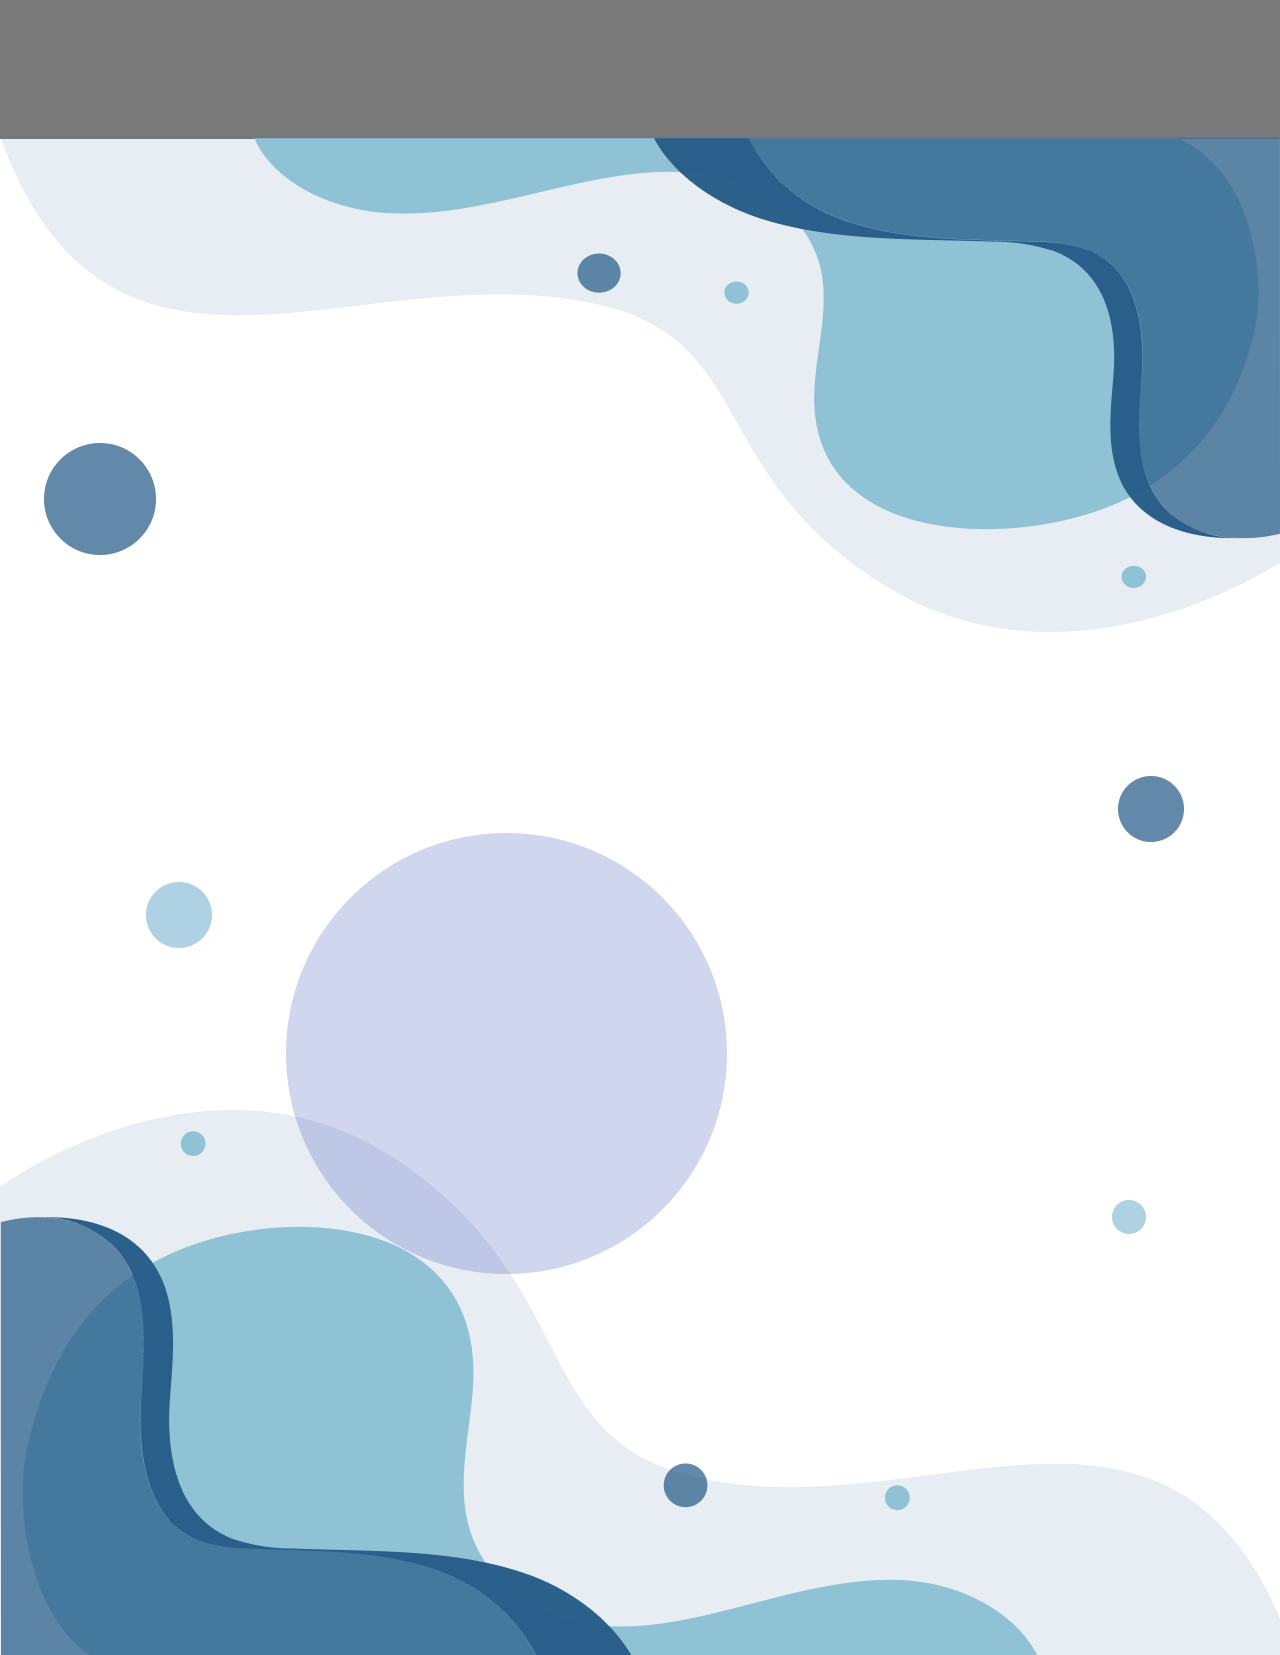
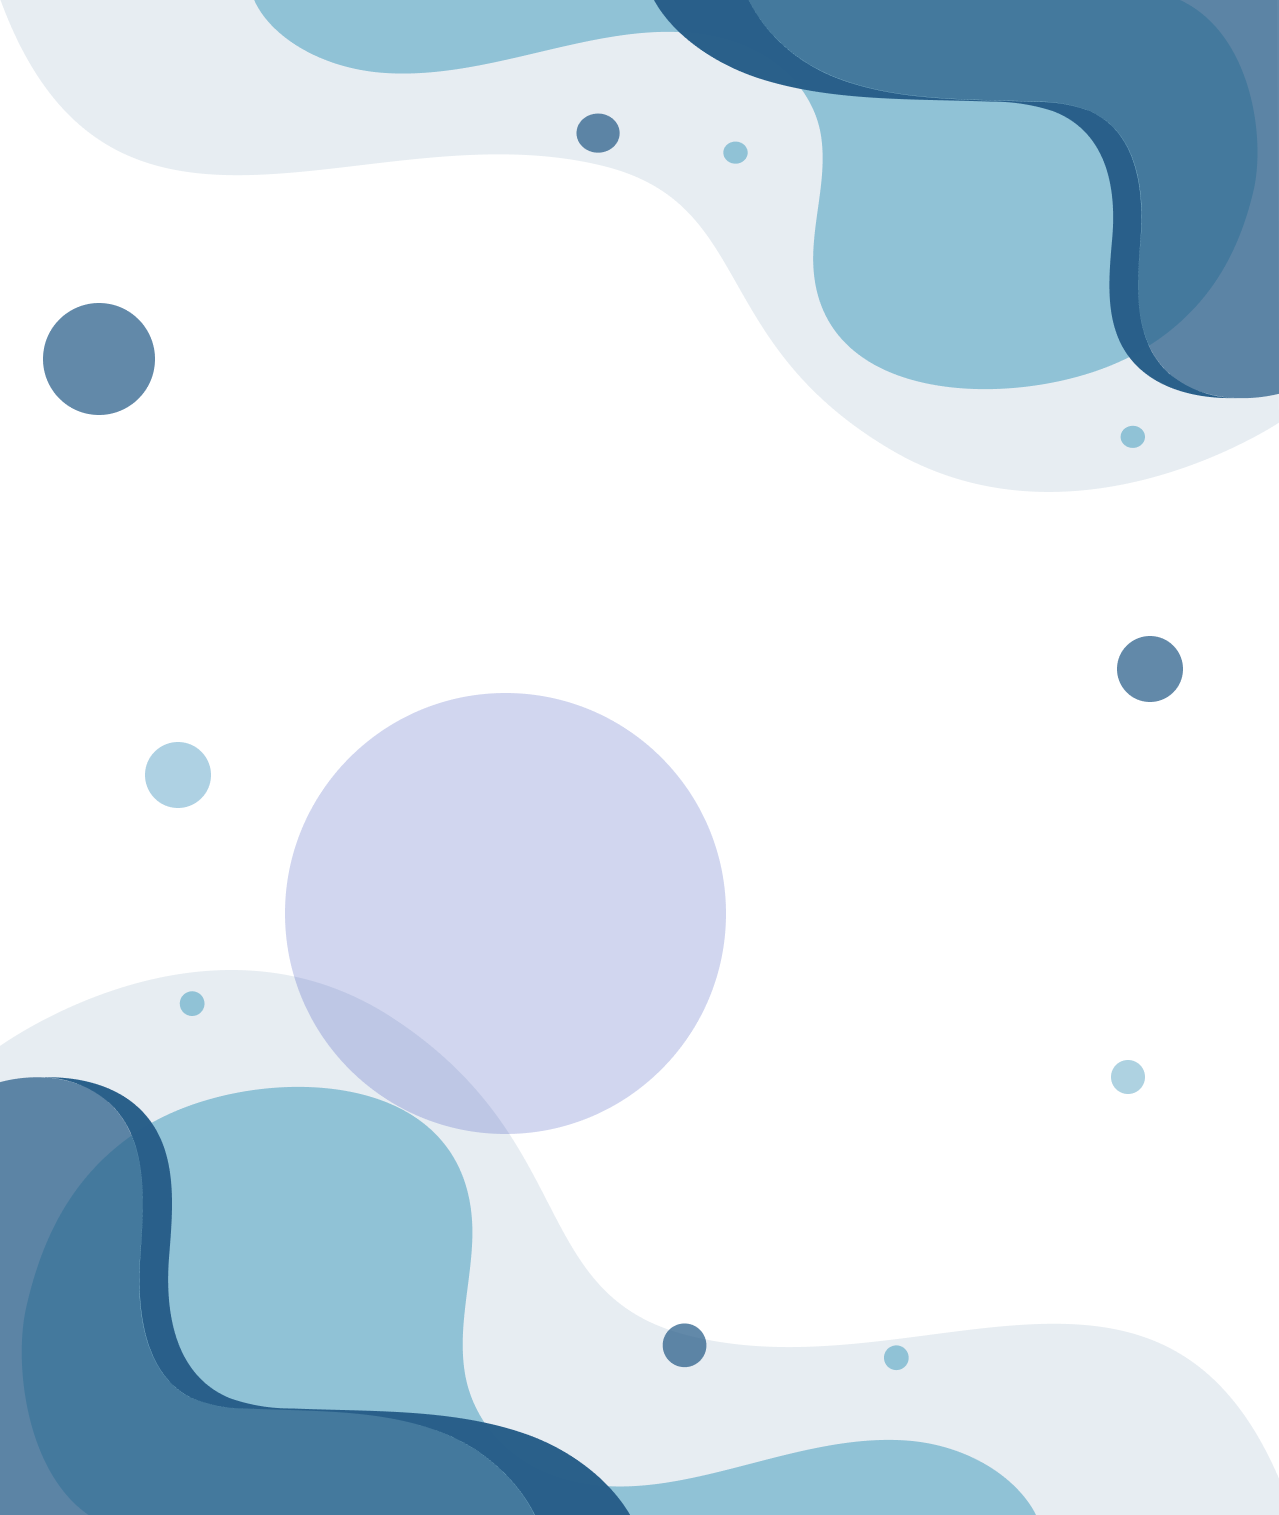
Changed bg

diff --git a/src/pages/EventsPage/EventsPage.jsx b/src/pages/EventsPage/EventsPage.jsx
@@ -41,19 +41,18 @@ const EventsPage = () => {
 
 
   return (
-   <><>
-
+   <div className="bg">
       {loading ? <Preloader loading={loading}></Preloader> : <>
 
         {isAboveLargeScreen ?
-          (<><motion.div className=" flex justify-around md:w-[70%] mx-auto mt-[44px] md:flex-row flex-col items-center md:gap-0 gap-3">
-            <div>
+          (<><motion.div className=" flex justify-around md:w-[70%] mx-auto md:flex-row flex-col items-center md:gap-0 gap-3">
+            <div className="mt-[44px]">
               <Button text="Pre-Events" outline={eventType !== "pre-event"} onPress={() => setEventType("pre-event")}></Button>
             </div>
-            <div>
+            <div className="mt-[44px]">
               <Button text="Events" outline={eventType !== "events"} onPress={() => setEventType("events")}></Button>
             </div>
-            <div>
+            <div className="mt-[44px]">
               <Button text="Guest talks" outline={eventType !== "guest-talk"} onPress={() => setEventType("guest-talk")}></Button>
             </div>
 
@@ -145,9 +144,10 @@ const EventsPage = () => {
 
           </>)}
 
-
       </>}
-    </><Footer /></>
+    
+    <Footer />
+    </div>
   );
 };
 

diff --git a/src/pages/AboutPage/AboutPage.jsx b/src/pages/AboutPage/AboutPage.jsx
@@ -12,9 +12,8 @@ const AboutPage = () => {
   }, [])
   
   return (
-    <>
-      <div className="background-element"></div>
-      <div className="flex-row items-center justify-center text-center my-10 mx-5">
+      <div className="bg">
+      <div className="flex-row items-center justify-center text-center mx-5">
       <motion.div variants={fadeIn('up', 0.3)} initial="hidden" whileInView={'show'} viewport={{once:false,amount:0.7}} >
           <div className="circular-container1">
             <img
@@ -37,7 +36,7 @@ const AboutPage = () => {
       </motion.div>
       </div>
       <hr className=" h-[2px] bg-light-blue-700  mx-20" />
-      <div className="text-center my-10 mx-5">
+      <div className="text-center mx-5">
         <motion.div variants={fadeIn('up', 0.3)} initial="hidden" whileInView={'show'} viewport={{once:false,amount:0.7}} >
         <div className="circular-container2">
         <img className="ssclogo-overlay"
@@ -101,7 +100,7 @@ const AboutPage = () => {
         
 
       <Footer />
-    </>
+      </div>
   );
 };
 

diff --git a/src/pages/TeamPage/TeamPage.jsx b/src/pages/TeamPage/TeamPage.jsx
@@ -95,8 +95,8 @@ function TeamPage() {
   }
 
   return (
-    <div>
-      <div className="flex items-center justify-center m-10" ref={spinnerRef}>
+    <div className="bg">
+      <div className="flex items-center justify-center " ref={spinnerRef}>
         <div
           className="inline-block h-8 w-8 animate-spin rounded-full border-4 border-solid border-current border-r-transparent align-[-0.125em] motion-reduce:animate-[spin_1.5s_linear_infinite]"
           role="status"
@@ -128,7 +128,7 @@ function TeamPage() {
             >
               <button
                 onClick={setColor}
-                // className={activebtn === "Our Team" ? "selected" : " "}
+              // className={activebtn === "Our Team" ? "selected" : " "}
               >
                 All
               </button>

diff --git a/src/components/UI/button/Button.jsx b/src/components/UI/button/Button.jsx
@@ -25,12 +25,6 @@ const Button = ({
   let textColor = outline ? buttonColor : disabled ? "#696969" : "white";
   let borderColor = disabled ? "#E4E4E4" : buttonColor;
 
-  if (curr.pathname === "/ca") {
-      backgroundColor = "#1A589B";
-      textColor = "white";
-      borderColor = "#1A589B";
-  }
-
   const styles = {
     backgroundColor: backgroundColor,
     color: textColor,

diff --git a/src/pages/Homepage/HomePage.jsx b/src/pages/Homepage/HomePage.jsx
@@ -21,7 +21,7 @@ const HomePage = () => {
   let interval;
 
   const startTimer = () => {
-    const countDownDate = new Date("April 7,2023").getTime();
+    const countDownDate = new Date("March 1,2024").getTime();
 
     interval = setInterval(() => {
       const now = new Date().getTime();

diff --git a/src/pages/AboutPage/AboutPage.css b/src/pages/AboutPage/AboutPage.css
@@ -1,3 +1,9 @@
+.bg {
+  background: url('/public/assets/bg.png');
+  background-size: cover;
+  min-height: "210vh";
+}
+
 .clubBox {
   display: flex;
   justify-content: center;

diff --git a/src/pages/GalleryPage/GalleryPage.jsx b/src/pages/GalleryPage/GalleryPage.jsx
@@ -9,7 +9,7 @@ const GalleryPage = () => {
   
   return (
     <>
-    <div>
+    <div className="bg">
     <h1>Beautiful pictures coming soon!</h1>
     <Footer />
     </div>

diff --git a/src/pages/TeamPage/TeamPage.css b/src/pages/TeamPage/TeamPage.css
@@ -1,3 +1,8 @@
+.bg {
+  background: url('/public/assets/bg.png');
+  background-size: cover;
+  min-height: "210vh";
+}
 .card:hover h1,
 .card:hover p {
   opacity: 1;
